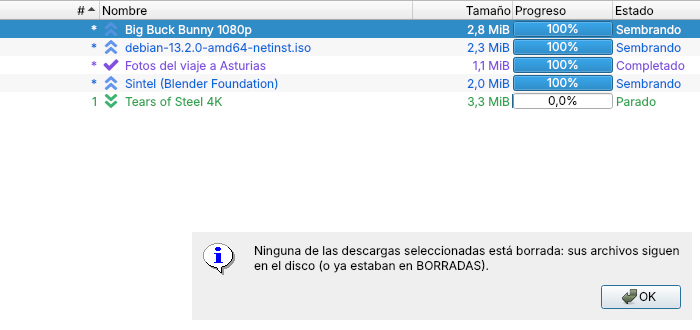
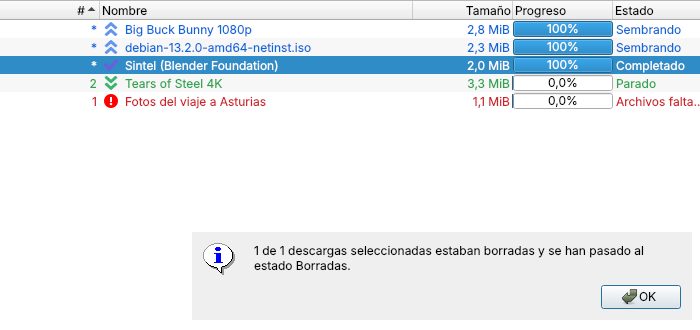
qBittorrent V5: estado Borradas en vez de categoría, con capturas nuevas
Claude-Session: https://claude.ai/code/session_01ABuFQEvtpaDfRcpS1N4uAL

diff --git a/index.html b/index.html
@@ -4,7 +4,7 @@
   <meta charset="utf-8">
   <meta name="viewport" content="width=device-width, initial-scale=1">
   <title>Descargas de Luis y Gloria: Simulador Foto para Android y qBittorrent para Ubuntu</title>
-  <meta name="description" content="Programas gratis para descargar: Simulador Foto, app de Android para aprender fotografía, y qBittorrent para Ubuntu en AppImage, más ligero y con la categoría BORRADAS. Siempre la última versión.">
+  <meta name="description" content="Programas gratis para descargar: Simulador Foto, app de Android para aprender fotografía, y qBittorrent para Ubuntu en AppImage, más ligero y con el estado Borradas. Siempre la última versión.">
   <link rel="canonical" href="https://luis-gloria.com/">
   <meta property="og:type" content="website">
   <meta property="og:site_name" content="Luis y Gloria">
@@ -37,7 +37,7 @@
       "@context": "https://schema.org",
       "@type": "SoftwareApplication",
       "name": "qBittorrent para Ubuntu (versión de Luis)",
-      "description": "qBittorrent 5.3 en AppImage para Ubuntu 26.04 o superior: más ligero mientras ves películas con VLC y con la categoría BORRADAS para las descargas cuyos archivos has borrado.",
+      "description": "qBittorrent 5.3 en AppImage para Ubuntu 26.04 o superior: más ligero mientras ves películas con VLC y con el estado Borradas para las descargas cuyos archivos has borrado.",
       "operatingSystem": "Ubuntu 26.04 o superior (64 bits)",
       "applicationCategory": "UtilitiesApplication",
       "inLanguage": "es",
@@ -404,7 +404,7 @@
           <li>
             <p class="para">Para ordenadores con Ubuntu</p>
             <h2>qBittorrent para Ubuntu</h2>
-            <p>El programa de descargas torrent qBittorrent, en un solo archivo que no hay que instalar, con arreglos propios: va más ligero mientras ves películas con VLC y aparta en BORRADAS las descargas cuyos archivos ya has borrado.</p>
+            <p>El programa de descargas torrent qBittorrent, en un solo archivo que no hay que instalar, con arreglos propios: va más ligero mientras ves películas con VLC y aparta en el estado Borradas las descargas cuyos archivos ya has borrado.</p>
             <div class="acciones">
               <a class="descargar" href="https://github.com/luisp193/qBittorrent/releases/latest/download/qBittorrent-x86_64.AppImage"><svg viewBox="0 0 24 24" fill="none" stroke="currentColor" stroke-width="2.2" stroke-linecap="round" stroke-linejoin="round" aria-hidden="true"><path d="M12 4v11M7 10l5 5 5-5M5 20h14"/></svg> Descargar para Ubuntu</a>
               <a class="mas" href="#qbittorrent">Qué es y cómo se instala</a>
@@ -534,8 +534,8 @@
           <dl>
             <div><dt>Modo película</dt><dd>Cuando abres VLC, qBittorrent baja solo a la velocidad lenta (la tortuga) para que la película no se corte. Al cerrar VLC vuelve a la velocidad normal.</dd></div>
             <div><dt>Más ligero</dt><dd>Usa el disco y el procesador solo cuando ningún otro programa los necesita, y escribe en el disco de forma más tranquila para que el ordenador no se quede congelado.</dd></div>
-            <div><dt>Categoría BORRADAS</dt><dd>Si borras los archivos de una descarga, el programa se da cuenta, la detiene y la pasa a la categoría BORRADAS. Lo revisa al arrancar y una vez al día.</dd></div>
-            <div><dt>Comprobar borrado</dt><dd>Con el botón derecho sobre una o varias descargas, la opción <strong>Comprobar borrado</strong> hace esa revisión en el momento y te dice el resultado.</dd></div>
+            <div><dt>Estado Borradas</dt><dd>Si borras los archivos de una descarga, el programa se da cuenta, la detiene y la pasa al estado <strong>Borradas</strong> del panel izquierdo, sin tocar su categoría. Ya no te sale entre las completadas. Lo revisa al arrancar y una vez al día.</dd></div>
+            <div><dt>Comprobar borrado</dt><dd>Con el botón derecho sobre una o varias descargas, la opción <strong>Comprobar borrado</strong> hace esa revisión en el momento. Si una borrada vuelve a tener sus archivos, la saca de Borradas.</dd></div>
           </dl>
         </section>
 
@@ -546,20 +546,20 @@
           </div>
           <div class="capturas">
             <figure class="captura">
-              <a href="img/qb-ventana.webp"><img src="img/qb-ventana.webp" alt="Ventana principal de qBittorrent con cinco descargas y la categoría BORRADAS en el panel izquierdo" width="820" height="450" loading="lazy"></a>
-              <figcaption>La ventana principal. A la izquierda, en Categorías, aparece <strong>BORRADAS</strong> en cuanto el programa encuentra una descarga cuyos archivos ya no están.</figcaption>
+              <a href="img/qb-ventana.webp"><img src="img/qb-ventana.webp" alt="Ventana principal de qBittorrent con cinco descargas y el estado Borradas al final de la lista de estados" width="820" height="450" loading="lazy"></a>
+              <figcaption>La ventana principal. A la izquierda, en Estado, al final, está <strong>Borradas</strong> con el número de descargas cuyos archivos ya no están.</figcaption>
             </figure>
             <figure class="captura">
-              <a href="img/qb-menu.webp"><img src="img/qb-menu.webp" alt="Menú del botón derecho sobre una descarga, con la opción Comprobar borrado resaltada" width="480" height="480" loading="lazy"></a>
+              <a href="img/qb-menu.webp"><img src="img/qb-menu.webp" alt="Menú del botón derecho sobre una descarga, con la opción Comprobar borrado resaltada" width="480" height="520" loading="lazy"></a>
               <figcaption>El menú del botón derecho sobre una descarga. La opción nueva es <strong>Comprobar borrado</strong>, debajo de Forzar verificación de archivo.</figcaption>
             </figure>
             <figure class="captura">
-              <a href="img/qb-comprobar.webp"><img src="img/qb-comprobar.webp" alt="Mensaje de qBittorrent tras Comprobar borrado: ninguna de las descargas seleccionadas está borrada" width="700" height="330" loading="lazy"></a>
-              <figcaption>Lo que contesta Comprobar borrado cuando los archivos siguen en el disco. Si faltan, mueve la descarga a BORRADAS y la detiene.</figcaption>
+              <a href="img/qb-comprobar.webp"><img src="img/qb-comprobar.webp" alt="Mensaje de qBittorrent tras Comprobar borrado: una descarga estaba borrada y se ha pasado al estado Borradas" width="700" height="330" loading="lazy"></a>
+              <figcaption>Lo que contesta Comprobar borrado al encontrar una descarga sin sus archivos: la detiene y la pasa al estado Borradas.</figcaption>
             </figure>
             <figure class="captura">
-              <a href="img/qb-categoria.webp"><img src="img/qb-categoria.webp" alt="Menú del botón derecho con el submenú Categoría abierto, mostrando la categoría BORRADAS" width="600" height="480" loading="lazy"></a>
-              <figcaption>Con el botón derecho, en <strong>Categoría</strong>, puedes sacar una descarga de BORRADAS (Restablecer) o pasarla a otra categoría.</figcaption>
+              <a href="img/qb-borradas.webp"><img src="img/qb-borradas.webp" alt="qBittorrent con el estado Borradas seleccionado, mostrando las dos descargas borradas" width="820" height="380" loading="lazy"></a>
+              <figcaption>Pulsando en <strong>Borradas</strong> ves solo esas descargas. Desde ahí puedes eliminarlas de la lista con el botón derecho, o usar Comprobar borrado si has recuperado los archivos.</figcaption>
             </figure>
           </div>
         </section>
